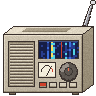
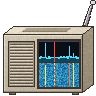
封面：右半改成跟機上一樣的頻譜＋瀑布螢幕
拿掉 S 表、旋鈕、波段鍵，右半整塊是螢幕：上半頻譜（青色軌跡與尖峰）、
下半瀑布（藍青雜訊、黃／紅訊號直線），紅色游標貫穿。RGB565 後 80 色。

Changed region(s): [[0.375, 0.4062, 0.8438, 0.9375]]

diff --git a/tools/make_cover.py b/tools/make_cover.py
@@ -28,12 +28,14 @@ METAL_D = (60, 55, 51)
 CHROME = (222, 222, 226)
 CHROME_D = (150, 150, 158)
 METER = (244, 238, 220)
-WF_BG = (22, 30, 70)                 # 瀑布圖：深藍底 -> 藍 -> 青 -> 黃（跟機上的調色盤同一個方向）
-WF_NOISE = (40, 60, 140)
-WF_BLU = (60, 110, 220)
-WF_CYN = (80, 210, 230)
-WF_YEL = (250, 220, 90)
-WF_HI = (70, 84, 130)
+SP_BG = (10, 14, 22)                 # 螢幕顏色取自機上畫面
+SP_FILL = (16, 70, 92)
+SP_TRACE = (90, 220, 250)
+WF_SPECK = [(30, 110, 170), (40, 150, 190), (60, 180, 200), (30, 90, 160), (50, 130, 180)]
+WF_YEL = (250, 230, 110)
+WF_RED = (240, 120, 70)
+WF_CURSOR = (255, 80, 40)
+WF_HI = (60, 70, 90)
 
 
 def build():
@@ -79,53 +81,46 @@ def build():
         d.line([(gx0 + 2, y + 1), (gx1 - 2, y + 1)], fill=BODY_L)
     d.line([(gx0 + 1, gy0 + 1), (gx1 - 1, gy0 + 1)], fill=BODY_DD)   # 內緣陰影（受光在左上）
 
-    # 刻度窗改成一塊小螢幕：瀑布圖（SDR 最好認的標誌），2×2 色塊，紅線是調諧游標
-    x0, y0, x1, y1 = 38, 40, 78, 58
-    d.rectangle([x0, y0, x1, y1], fill=WF_BG, outline=OUTL)
+    # 右半整塊是螢幕，畫得跟機上的畫面一樣（firmware/screen.ppm）：
+    # 上半是頻譜（青色軌跡沿著雜訊底線，幾根尖峰，下面填深青），
+    # 下半是瀑布圖（藍青色雜訊顆粒，強訊號是往下流的黃／紅細直線，跟上面的尖峰對齊），
+    # 紅色調諧游標貫穿兩者：頻譜上實線、瀑布上虛線。
+    x0, y0, x1, y1 = 38, 40, 79, 87
+    d.rectangle([x0 - 1, y0 - 1, x1 + 1, y1 + 1], fill=BODY_D, outline=OUTL)   # 螢幕框
+    d.rectangle([x0, y0, x1, y1], fill=SP_BG, outline=OUTL)
+    sx0, sx1 = x0 + 1, x1 - 1
+    sy0, sy1 = y0 + 1, y0 + 21                # 頻譜區
+    wy0, wy1 = sy1 + 2, y1 - 1                # 瀑布區
+    floor = sy1 - 4                           # 雜訊底線
+    peaks = {sx0 + 6: (sy0 + 2, WF_YEL), sx0 + 15: (sy0 + 9, WF_YEL),
+             sx0 + 30: (sy0 + 5, WF_RED), sx0 + 34: (sy0 + 12, WF_YEL)}
+    cursor = sx0 + 15
     wr = random.Random(68500)
-    # 幾條「訊號」：固定在某些欄，強度不同；其餘是深藍底雜訊
-    sigs = {6: WF_YEL, 7: WF_CYN, 13: WF_CYN, 15: WF_BLU, 4: WF_BLU, 17: WF_CYN}
-    for gy in range(y0 + 1, y1, 2):
-        for gi, gx in enumerate(range(x0 + 1, x1, 2)):
-            c = sigs.get(gi)
-            if c is WF_YEL and wr.random() < 0.25:
-                c = WF_CYN                         # 強訊號偶爾弱一點（衰落）
-            elif c is None:
-                c = WF_NOISE if wr.random() < 0.18 else None
-            elif c is not WF_YEL and wr.random() < 0.3:
-                c = WF_NOISE                       # 弱訊號斷斷續續
-            if c:
-                d.rectangle([gx, gy, gx + 1, gy + 1], fill=c)
-    d.line([(x0 + 1, y0 + 1), (x1 - 1, y0 + 1)], fill=WF_HI)   # 玻璃上緣的反光
-    d.line([(61, y0 + 2), (61, y1 - 1)], fill=RED)
-
-    # S 表：小方窗、弧形刻度、指針
-    mx0, my0, mx1, my1 = 38, 62, 55, 77
-    d.rectangle([mx0, my0, mx1, my1], fill=METER, outline=OUTL)
-    d.arc([mx0 + 2, my0 + 3, mx1 - 2, my1 + 9], 200, 340, fill=OUTL)
-    d.arc([mx0 + 2, my0 + 3, mx1 - 2, my1 + 9], 300, 340, fill=RED)
-    d.line([(46, 75), (51, 66)], fill=OUTL)
-    d.line([(mx0 + 1, my1 - 1), (mx1 - 1, my1 - 1)], fill=BODY_L)
-
-    # 調諧大旋鈕：深色金屬，左上高光
-    cx, cy, r = 68, 71, 9
-    d.ellipse([cx - r, cy - r + 1, cx + r, cy + r + 1], fill=METAL_D)   # 底下的影子
-    d.ellipse([cx - r, cy - r, cx + r, cy + r], fill=METAL, outline=OUTL)
-    d.pieslice([cx - r + 1, cy - r + 1, cx + r - 1, cy + r - 1], 180, 270, fill=METAL_L)
-    d.ellipse([cx - 4, cy - 4, cx + 4, cy + 4], fill=METAL, outline=METAL_D)
-    for a in range(0, 360, 30):                      # 滾花
-        import math
-        px = cx + round((r - 1) * math.cos(math.radians(a)))
-        py = cy + round((r - 1) * math.sin(math.radians(a)))
-        im.putpixel((px, py), METAL_D)
-    d.line([(cx, cy - 3), (cx, cy - 1)], fill=RED_L)    # 刻線
-
-    # 波段按鍵：一排四顆
-    for i in range(4):
-        bx = 39 + i * 10
-        d.rectangle([bx, 82, bx + 7, 87], fill=BODY_L, outline=OUTL)
-        d.line([(bx + 1, 86), (bx + 6, 86)], fill=BODY_D)
-    d.rectangle([39 + 1, 83, 39 + 6, 85], fill=RED)   # 按下的那顆
+    # 頻譜：每欄一個高度，雜訊底線上下抖，尖峰處拉高；軌跡以下填深青
+    prev = floor
+    for x in range(sx0, sx1 + 1):
+        h = peaks[x][0] if x in peaks else floor + wr.choice((-1, 0, 0, 1))
+        for y in range(h + 1, sy1 + 1):
+            im.putpixel((x, y), SP_FILL)
+        lo, hi = min(h, prev), max(h, prev)
+        for y in range(lo, hi + 1):           # 跟左鄰連成實線
+            im.putpixel((x, y), SP_TRACE)
+        prev = h if x not in peaks else floor
+    d.line([(sx0, sy1 + 1), (sx1, sy1 + 1)], fill=OUTL)         # 頻譜與瀑布的分隔
+    # 瀑布：每個像素是雜訊顆粒，訊號欄是往下流的細直線（偶爾衰落一格）
+    for y in range(wy0, wy1 + 1):
+        for x in range(sx0, sx1 + 1):
+            c = wr.choice(WF_SPECK)
+            if x in peaks and wr.random() > 0.08:
+                c = peaks[x][1]
+            im.putpixel((x, y), c)
+    # 游標
+    for y in range(sy0, sy1 + 1):
+        im.putpixel((cursor, y), WF_CURSOR)
+    for y in range(wy0, wy1 + 1):
+        if (y - wy0) & 2:
+            im.putpixel((cursor, y), WF_CURSOR)
+    d.line([(x0 + 1, y0 + 1), (x1 - 1, y0 + 1)], fill=WF_HI)     # 玻璃上緣的反光
 
     # 機腳
     for fx in (9, 72):

diff --git a/docs/DESIGN.md b/docs/DESIGN.md
@@ -464,8 +464,8 @@ M2 的測試訊號可以由掌機自己產生：在閒置的 GPIO 0 輸出 68.5 
 M4 的判準已達成：錄下的 .wav 是 500 ksps 原始樣本，`tools/rec_analyze.py` 可以分析，
 並輸出 SDR++／SDR# 能直接開的 I/Q wav。
 
-M5 的判準已達成：封面是 1980 年代米色短波收音機，刻度窗是一塊色塊瀑布圖（SDR 的標誌）
-（`tools/make_cover.py` 產生 `assets/RetroSDR.ino.RAW`，RGB565 後 89 色），`build_offset.bat` 連結在 `0x10004000` 並把封面複製成兩個 uf2 各自的 `.RAW`。
+M5 的判準已達成：封面是 1980 年代米色短波收音機，右半是一塊螢幕，畫得跟機上畫面一樣
+（上半頻譜、下半瀑布圖、紅色游標）（`tools/make_cover.py` 產生 `assets/RetroSDR.ino.RAW`，RGB565 後 80 色），`build_offset.bat` 連結在 `0x10004000` 並把封面複製成兩個 uf2 各自的 `.RAW`。
 載入器選單看得到封面、啟動正常。standalone 版夾的跳板與 bundle 的 `trampoline.uf2` 逐位元組相同。
 
 ---

diff --git a/docs/DEVLOG.md b/docs/DEVLOG.md
@@ -708,3 +708,9 @@ DESIGN §11 第 10 項。原本的 S/N 是單一 bin 對全頻段中位數，跟
 深藍底、2×2 色塊的訊號直條（藍／青／黃，跟機上調色盤同方向）、紅線保留當調諧游標。
 色塊刻意平塗，RGB565 後 89 色（略低於 ICON-STYLE 建議的三位數，可接受）。bundle 的封面同步更新；
 uf2 不受影響（封面是獨立檔案），Release 不必重傳。
+
+**封面第三版（同日）**：第二版只在刻度窗放了一塊抽象的色塊瀑布，使用者指出不像 SDR 畫面。
+拿掉 S 表、旋鈕、波段鍵，右半整塊改成螢幕，照機上畫面（`firmware/screen.ppm`）畫：上半頻譜
+（青色軌跡、四根尖峰、深青填色），下半瀑布（藍青雜訊顆粒，黃／紅細直線跟尖峰對齊），紅色游標
+頻譜上實線、瀑布上虛線。顏色取自機上配色。RGB565 後 80 色。教訓：要畫「認得出的東西」時，
+直接照自己產品的實際畫面畫，不要自己發明抽象圖案。
